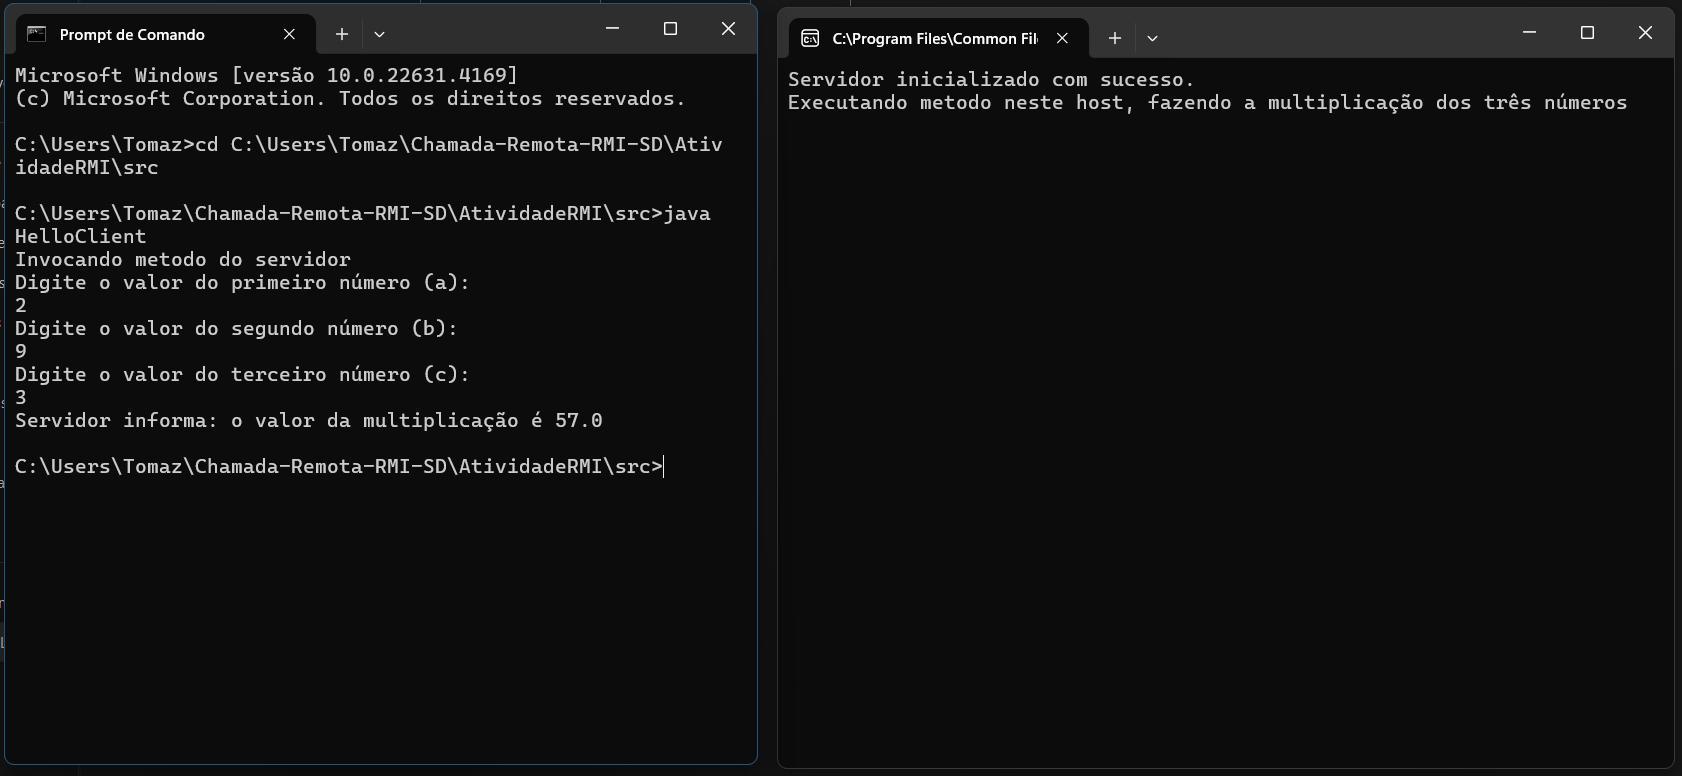
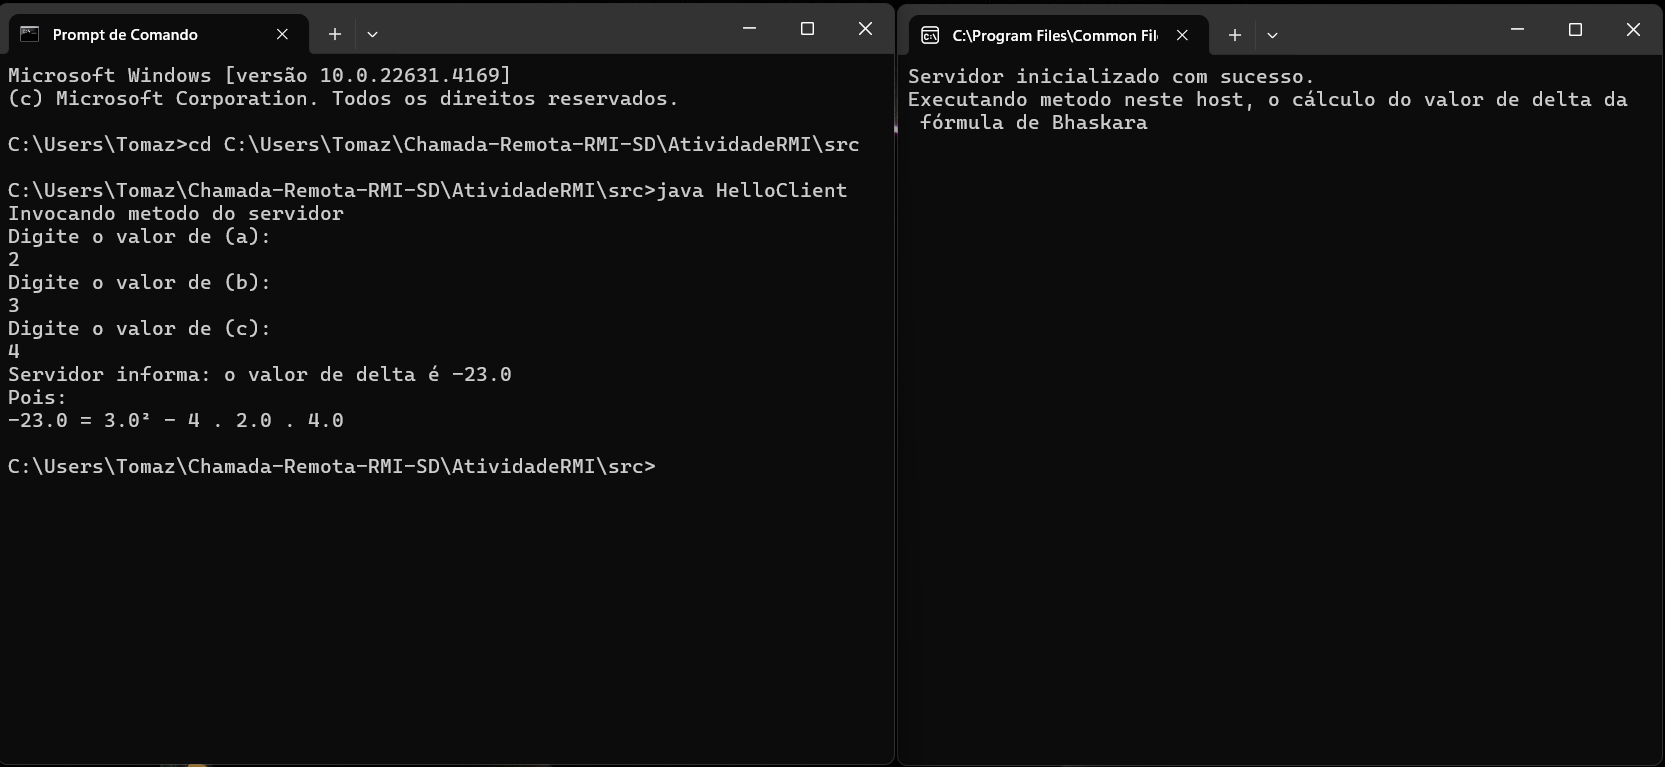
Ajustes no projeto

diff --git a/AtividadeRMI/src/HelloClient.java b/AtividadeRMI/src/HelloClient.java
@@ -8,13 +8,13 @@ public class HelloClient {
 				// Chama o método do servidor e imprime a mensagem
 				System.out.println("Invocando metodo do servidor");
 				
-				System.out.println("Digite o valor do primeiro número (a):");
+				System.out.println("Digite o valor de (a):");
 				float a = scanner.nextFloat();
 
-				System.out.println("Digite o valor do segundo número (b):");
+				System.out.println("Digite o valor de (b):");
 				float b = scanner.nextFloat();
 
-				System.out.println("Digite o valor do terceiro número (c):");
+				System.out.println("Digite o valor de (c):");
 				float c = scanner.nextFloat();
 
 				// Procura o registro do RMI no Servidor
@@ -25,7 +25,9 @@ public class HelloClient {
 				Hello stub = (Hello) registry.lookup("Servidor");
 
 				float delta = stub.hello(a, b, c);
-				System.out.println("Servidor informa: o valor da multiplicação é " + delta);
+				System.out.println("Servidor informa: o valor de delta é " + delta);
+				System.out.println("Pois:");
+				System.out.println(delta + " = " + b + "² - 4 . " + a + " . " + c);
 			} 
 		} catch (Exception ex) {
 			ex.printStackTrace();

diff --git a/AtividadeRMI/src/HelloServer.java b/AtividadeRMI/src/HelloServer.java
@@ -1,6 +1,6 @@
 import java.rmi.*;
-import java.rmi.server.*;
 import java.rmi.registry.*;
+import java.rmi.server.*;
 
 public class HelloServer implements Hello {
 	public HelloServer() {}  // Construtor
@@ -22,7 +22,7 @@ public class HelloServer implements Hello {
 	}
 
 	public float hello(float a, float b, float c) throws RemoteException {
-        System.out.println("Executando metodo neste host, fazendo a multiplicação dos três números");
+        System.out.println("Executando metodo neste host, o cálculo do valor de delta da fórmula de Bhaskara");
         return b * b - 4 * a * c;
     }
 }
